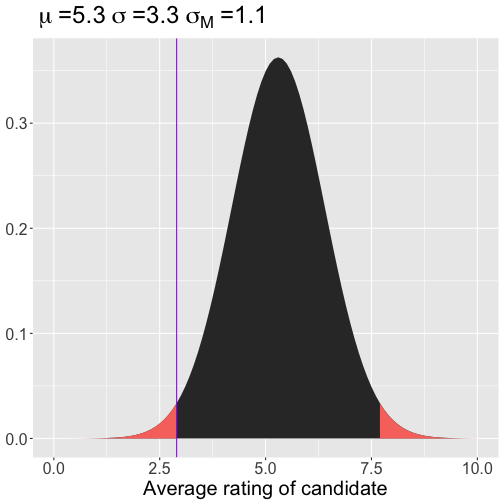
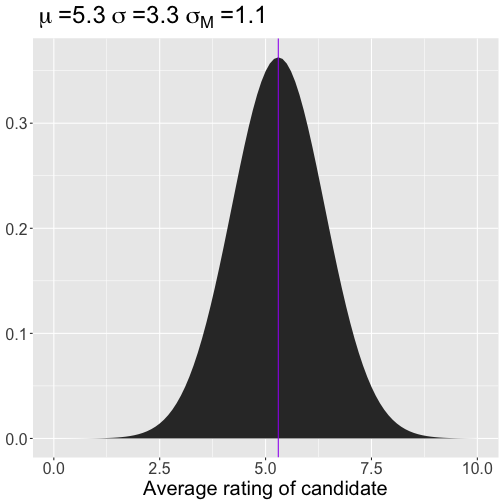
publish nhst 1

Changed region(s): [[0.2381, 0.0893, 0.3571, 0.8929], [0.5357, 0.0893, 0.5655, 0.8929], [0.744, 0.8036, 0.8929, 0.8929]]

diff --git a/lectures/9-nhst.html b/lectures/9-nhst.html
@@ -238,15 +238,15 @@ For now, we'll work through an example using the standard normal distribution.
 
 ## Example #2 
 
-University X has been around for 150 years, and so has 150 years worth of ratings of male applicants. You pay an undergrad dig through all the old university files and calculate the average rating of male applicants (5.3 out of 10) and also the standard deviation of those ratings (3.3). 
+University X has been around for 150 years, and so has 150 years worth of ratings of applicants. You pay an undergrad dig through all the old university files and calculate the average rating of productivity for the job applicants (5.3 out of 10) and also the standard deviation of those ratings (3.3). 
 
-You then collect the ratings of 9 female applicants in 2018 and calculate their average rating (2.9) and also the standard deviation of their rating (3.1)
+You are interested in if the pandemic contributed to productivity declines. You then collect the ratings of 9 very recent applicants from 2020, and you calculate their average rating (2.9). 
 
 How do you generate the sampling distribution around the null?
 
 ???
 
-Null: distribution of men's scores -- you know this population, trying to see if ratings of female applicants come from the same distribution of scores
+Null: dist of all scores over 150 years!
 
 
 ---
@@ -262,12 +262,13 @@ The standard deviation of the sampling distribution:
 
 ]
 
-![](9-nhst_files/figure-html/unnamed-chunk-7-1.png)&lt;!-- --&gt;
+![](9-nhst_files/figure-html/sampling-1.png)&lt;!-- --&gt;
 
 
 ???
-Pop mean (male) = 5.3
-SD populataion (males) = 3.3
+Pop mean (apps pre 2020) = 5.3
+SD populataion (apps pre 2020) = 3.3
+SEM = sd/sqrt(N), N = 9, SEM = 1.1
 construct it around the null
 
 ##What must we assume in order to use the SEM?
@@ -289,10 +290,10 @@ The standard deviation of the sampling distribution:
 
 ]
 
-![](9-nhst_files/figure-html/unnamed-chunk-8-1.png)&lt;!-- --&gt;
+![](9-nhst_files/figure-html/unnamed-chunk-7-1.png)&lt;!-- --&gt;
 
 ???
-Now, we're trying to decide if given this null hypothesis, that has a distribution that looks like so, is it likely that our females come from this same distribution. the females had a mean of 2.9, so our purple line moves over. The standard deviation of our sampling distribution here is our standard error of the mean. to caluclate that we take our population standard deviation, sigma, and divide by the square root of N. we had 9 females, so square root of 9. this turns out to be 1.1. Even though we're only talking about this tail at the moment, i've plotted out the equivalent tail on the other side. 
+Now, we're trying to decide if given this null hypothesis, that has a distribution that looks like so, is it likely that our recent applicatins come from this same distribution. the recent apps had a mean of 2.9, so our purple line moves over. The standard deviation of our sampling distribution here is our standard error of the mean. to caluclate that we take our population standard deviation, sigma, and divide by the square root of N. we had 9 recent apps, so square root of 9. this turns out to be 1.1. Even though we're only talking about this tail at the moment, i've plotted out the equivalent tail on the other side. 
 
 Calculate SEM on board.
 
@@ -302,41 +303,8 @@ Calculate SEM on board.
 
 ---
 
-All well and good. 
-
-But rarely will you have access to all the data in your population, so you won't be able to calculate the population standard deviation. What will you do?
-
---
-
-`$$SEM = \frac{\hat{\sigma}}{\sqrt{N}} = \frac{s}{\sqrt{N}}$$`
-
-So long as your estimate of the standard deviation is already corrected for bias (you've divided by `\(N-1\)` ), then you can swap in your sample SD.
-
-
----
-
-.left-column[
-
-.small[
-If you didn't know the population (male's) standard deviation, you would use the sample of females to estimate the population standard deviation.
-
-`$$SEM = \frac{\hat{\sigma}}{\sqrt{N}}$$`]
-]
-
-![](9-nhst_files/figure-html/sampling-1.png)&lt;!-- --&gt;
-
-???
-
-Calculate SEM on board.
-
-`\(\hat{\sigma} = 3.1\)`
-
-`\(N = 9\)`
-
----
-
 .pull-left[
-![](9-nhst_files/figure-html/unnamed-chunk-9-1.png)&lt;!-- --&gt;
+![](9-nhst_files/figure-html/unnamed-chunk-8-1.png)&lt;!-- --&gt;
 
 ]
 
@@ -344,34 +312,103 @@ Calculate SEM on board.
 
 
 
-
-We have a normal distribution for which we know the mean (M), the standard deviation (SEM), and a score of interest ( `\(\bar{X}\)` ). 
+We have a normal distribution for which we have a score of interest (new applicant, `\(\bar{X}\)` ), we know the mean of the population (the before times, M), the standard deviation of the before times, so we can get the standard deviation (SEM). 
 
 We can use this information to calculate a Z-score; in the context of comparing one mean to a sampling distribution of means, we call this a **Z-statistic**. 
 ]
 
-`$$Z = \frac{\bar{X}- M}{SEM} = \frac{2.9-5.3}{1.03} = -2.32$$`
+`$$Z = \frac{\bar{X}- M}{SEM} = \frac{2.9-5.3}{1.1} = -2.18$$`
 
 ???
 The z here isn't a z-score bc indtrsf we’re calculating standardised version of a sample mean,
 not a standardised version of a single observation, which is what a z-score usually refers to)
 
-let's just recap. our null hypothesis was that the mean of females equaled the mean of females in their applicaton ratings. the alternative is that these means are different. That is, the null is that males and females come from the same population dist, and the alternative is that the females do not come from the same population dist as the males. the population mean of the males, 5.3, was used to derive the null distribution. then we used our sample estimate of the standard deviation from the females as a way of approximating the male population standard deviation (we're pretending we didn't know that). We used this to get a standard error of the mean, and we put it all together to get this z-statistic. the z tells us the number of standard errors that separate the observed sample mean from our population mean, that's predicted by our null hypothesis. 
+let's just recap. our null hypothesis was that the mean of apps pre 2020 equaled the mean of apps post 2020. the alternative is that these means are different. That is, the null is that this current crop of applicants comes from the same pool as the population of applicants as measured over 150 years from University X. The alternative is that the current crop of applicants do not come from the same population dist as their predescesors (decline in productivity). the population mean of the pre-pandemic, 5.3, was used to derive the null distribution. then we used our population standard deviation and study sample size to define how fat or skinny that distribution truly is. We used this to get a standard error of the mean, and we put it all together to get this z-statistic. the z tells us the number of standard errors that separate the observed sample mean from our population mean, that's predicted by our null hypothesis. 
 ---
 
-`$$Z = \frac{\bar{X}- M}{SEM} = \frac{2.9-5.3}{1.03} = -2.32$$`
+`$$Z = \frac{\bar{X}- M}{SEM} = \frac{2.9-5.3}{1.1} = -2.18$$`
 
 
 And here's where we use the properties of the Standard Normal Distribution to calculate probabilities, specifically the probability of getting a score this far away from `\(\mu\)` or more extreme:
 
 
 ```r
-pnorm(-2.32) + pnorm(2.32, lower.tail = F)
+pnorm(-2.18) + pnorm(2.18, lower.tail = F)
 ```
 
 ```
-## [1] 0.02034088
+## [1] 0.02925746
 ```
+
+```r
+pnorm(-2.18)*2
+```
+
+```
+## [1] 0.02925746
+```
+
+The probability that the average current applicant's score would be at least 2.18 units away from the average score of the population of applicants is 0.029.
+
+--
+
+0.029 is our `\(p\)`-value!
+---
+class: inverse, center
+
+# Congrats! 🎉
+
+You just ran your first `\(z\)`-test.
+
+It's useless.
+
+We use it when we want to know if our mean is the same or different from a population mean. 
+
+---
+
+The probability that the average post-pandemic applicant's score would be at least 2.18 units away from the average score is 0.029.
+
+0.029 is our p-value. 
+
+### A p-value DOES NOT:
+
+- Tell you that the probability that the null hypothesis is true. 
+
+- Prove that the alternative hypothesis is true. 
+    
+- Tell you anything about the size or magnitude of any observed difference in your data. 
+
+---
+## Again, but with a twist...
+
+All well and good. 
+
+But rarely will you have access to all the data in your population, so you won't be able to calculate the population standard deviation. What will you do? We still have our population mean of 5.3, but now let's say we *only* have the **sample** standard deviation...
+
+--
+
+`$$SEM = \frac{\hat{\sigma}}{\sqrt{N}} = \frac{s}{\sqrt{N}}$$`
+
+So long as your estimate of the standard deviation is already corrected for bias (you've divided by `\(N-1\)` ), then you can swap in your sample SD.
+
+---
+
+.left-column[
+
+.small[
+If you didn't know the population standard deviation, you would use the sample of post-pandemic applicants to estimate the population standard deviation.
+
+`$$SEM = \frac{\hat{\sigma}}{\sqrt{N}}$$`]
+]
+
+![](9-nhst_files/figure-html/sampling2-1.png)&lt;!-- --&gt;
+
+---
+## Again, but with a twist...
+
+
+`$$t = \frac{\bar{X}- M}{SEM} = \frac{2.9-5.3}{1.03} = -2.32$$`
+
 
 ```r
 pnorm(-2.32)*2
@@ -381,27 +418,29 @@ pnorm(-2.32)*2
 ## [1] 0.02034088
 ```
 
-The probability that the average female applicant's score would be at least 2.32 units away from the average male score is 0.02.
+```r
+pt(-2.32, df = N-1)*2
+```
 
-This whole process is called the `\(z\)`-test. It's almost never used IRL, but it's a useful tool in terms of understanding what's happening. We use it when we want to know if our mean is the same or different from a population mean. 
+```
+## [1] 0.04891943
+```
 
 ---
+class: inverse, center
 
-The probability that the average female applicant's score would be at least 2.32 units away from the average male score is 0.02.
+# Congrats! 🎉
 
-0.02 is our p-value. 
+You just ran your first `\(t\)`-test.
 
-### A p-value DOES NOT:
+It's extremely useful
 
-- Tell you that the probability that the null hypothesis is true. 
+We use it when we want to know if our mean is the same or different from a population mean, but we don't have the population variance. Most of the time (not always, but most), we use this in the context of "is some value different from 0". 
 
-- Prove that the alternative hypothesis is true. 
-    
-- Tell you anything about the size or magnitude of any observed difference in your data. 
-    
+.small[Note, this is specifically called a "one sample t-test" but we'll talk more about that in a bit]
+
 ---
-
-`$$p = 0.02$$` 
+## `\(.029, .020, .049\)`
 
     
 Is that a really low probability?
@@ -423,8 +462,6 @@ Historically, psychologists have chosen to set their `\(\alpha\)` level at .05, 
 This means that, among the times we examine a relationship that is truly null, we will reject the null 1 in 20 times. 
 
 Some have argued that this is not conservative enough and we should use `\(\alpha &lt; .005\)` ([Benjamin et al., 2018](../readings/Benjamin_etal_2018.pdf)).
-
-
 ---
 
 ## NHST Steps
@@ -452,10 +489,6 @@ class: inverse
 .center[
 &lt;img src="images/halloween.jpeg" width="60%" /&gt;
 ]
-???
-
-next week office hours....
-
     </textarea>
 <style data-target="print-only">@media screen {.remark-slide-container{display:block;}.remark-slide-scaler{box-shadow:none;}}</style>
 <script src="https://remarkjs.com/downloads/remark-latest.min.js"></script>

diff --git a/index.html b/index.html
@@ -282,6 +282,9 @@ $(document).ready(function () {
     <li>
       <a href="lectures/exam1review.html">Exam 1 Practice Qs</a>
     </li>
+    <li>
+      <a href="lectures/9-nhst.html">NHST 1</a>
+    </li>
   </ul>
 </li>
 <li>

diff --git a/homework.html b/homework.html
@@ -357,6 +357,9 @@ div.tocify {
     <li>
       <a href="lectures/exam1review.html">Exam 1 Practice Qs</a>
     </li>
+    <li>
+      <a href="lectures/9-nhst.html">NHST 1</a>
+    </li>
   </ul>
 </li>
 <li>

diff --git a/lectureVideos.html b/lectureVideos.html
@@ -357,6 +357,9 @@ div.tocify {
     <li>
       <a href="lectures/exam1review.html">Exam 1 Practice Qs</a>
     </li>
+    <li>
+      <a href="lectures/9-nhst.html">NHST 1</a>
+    </li>
   </ul>
 </li>
 <li>

diff --git a/schedule.html b/schedule.html
@@ -357,6 +357,9 @@ div.tocify {
     <li>
       <a href="lectures/exam1review.html">Exam 1 Practice Qs</a>
     </li>
+    <li>
+      <a href="lectures/9-nhst.html">NHST 1</a>
+    </li>
   </ul>
 </li>
 <li>
